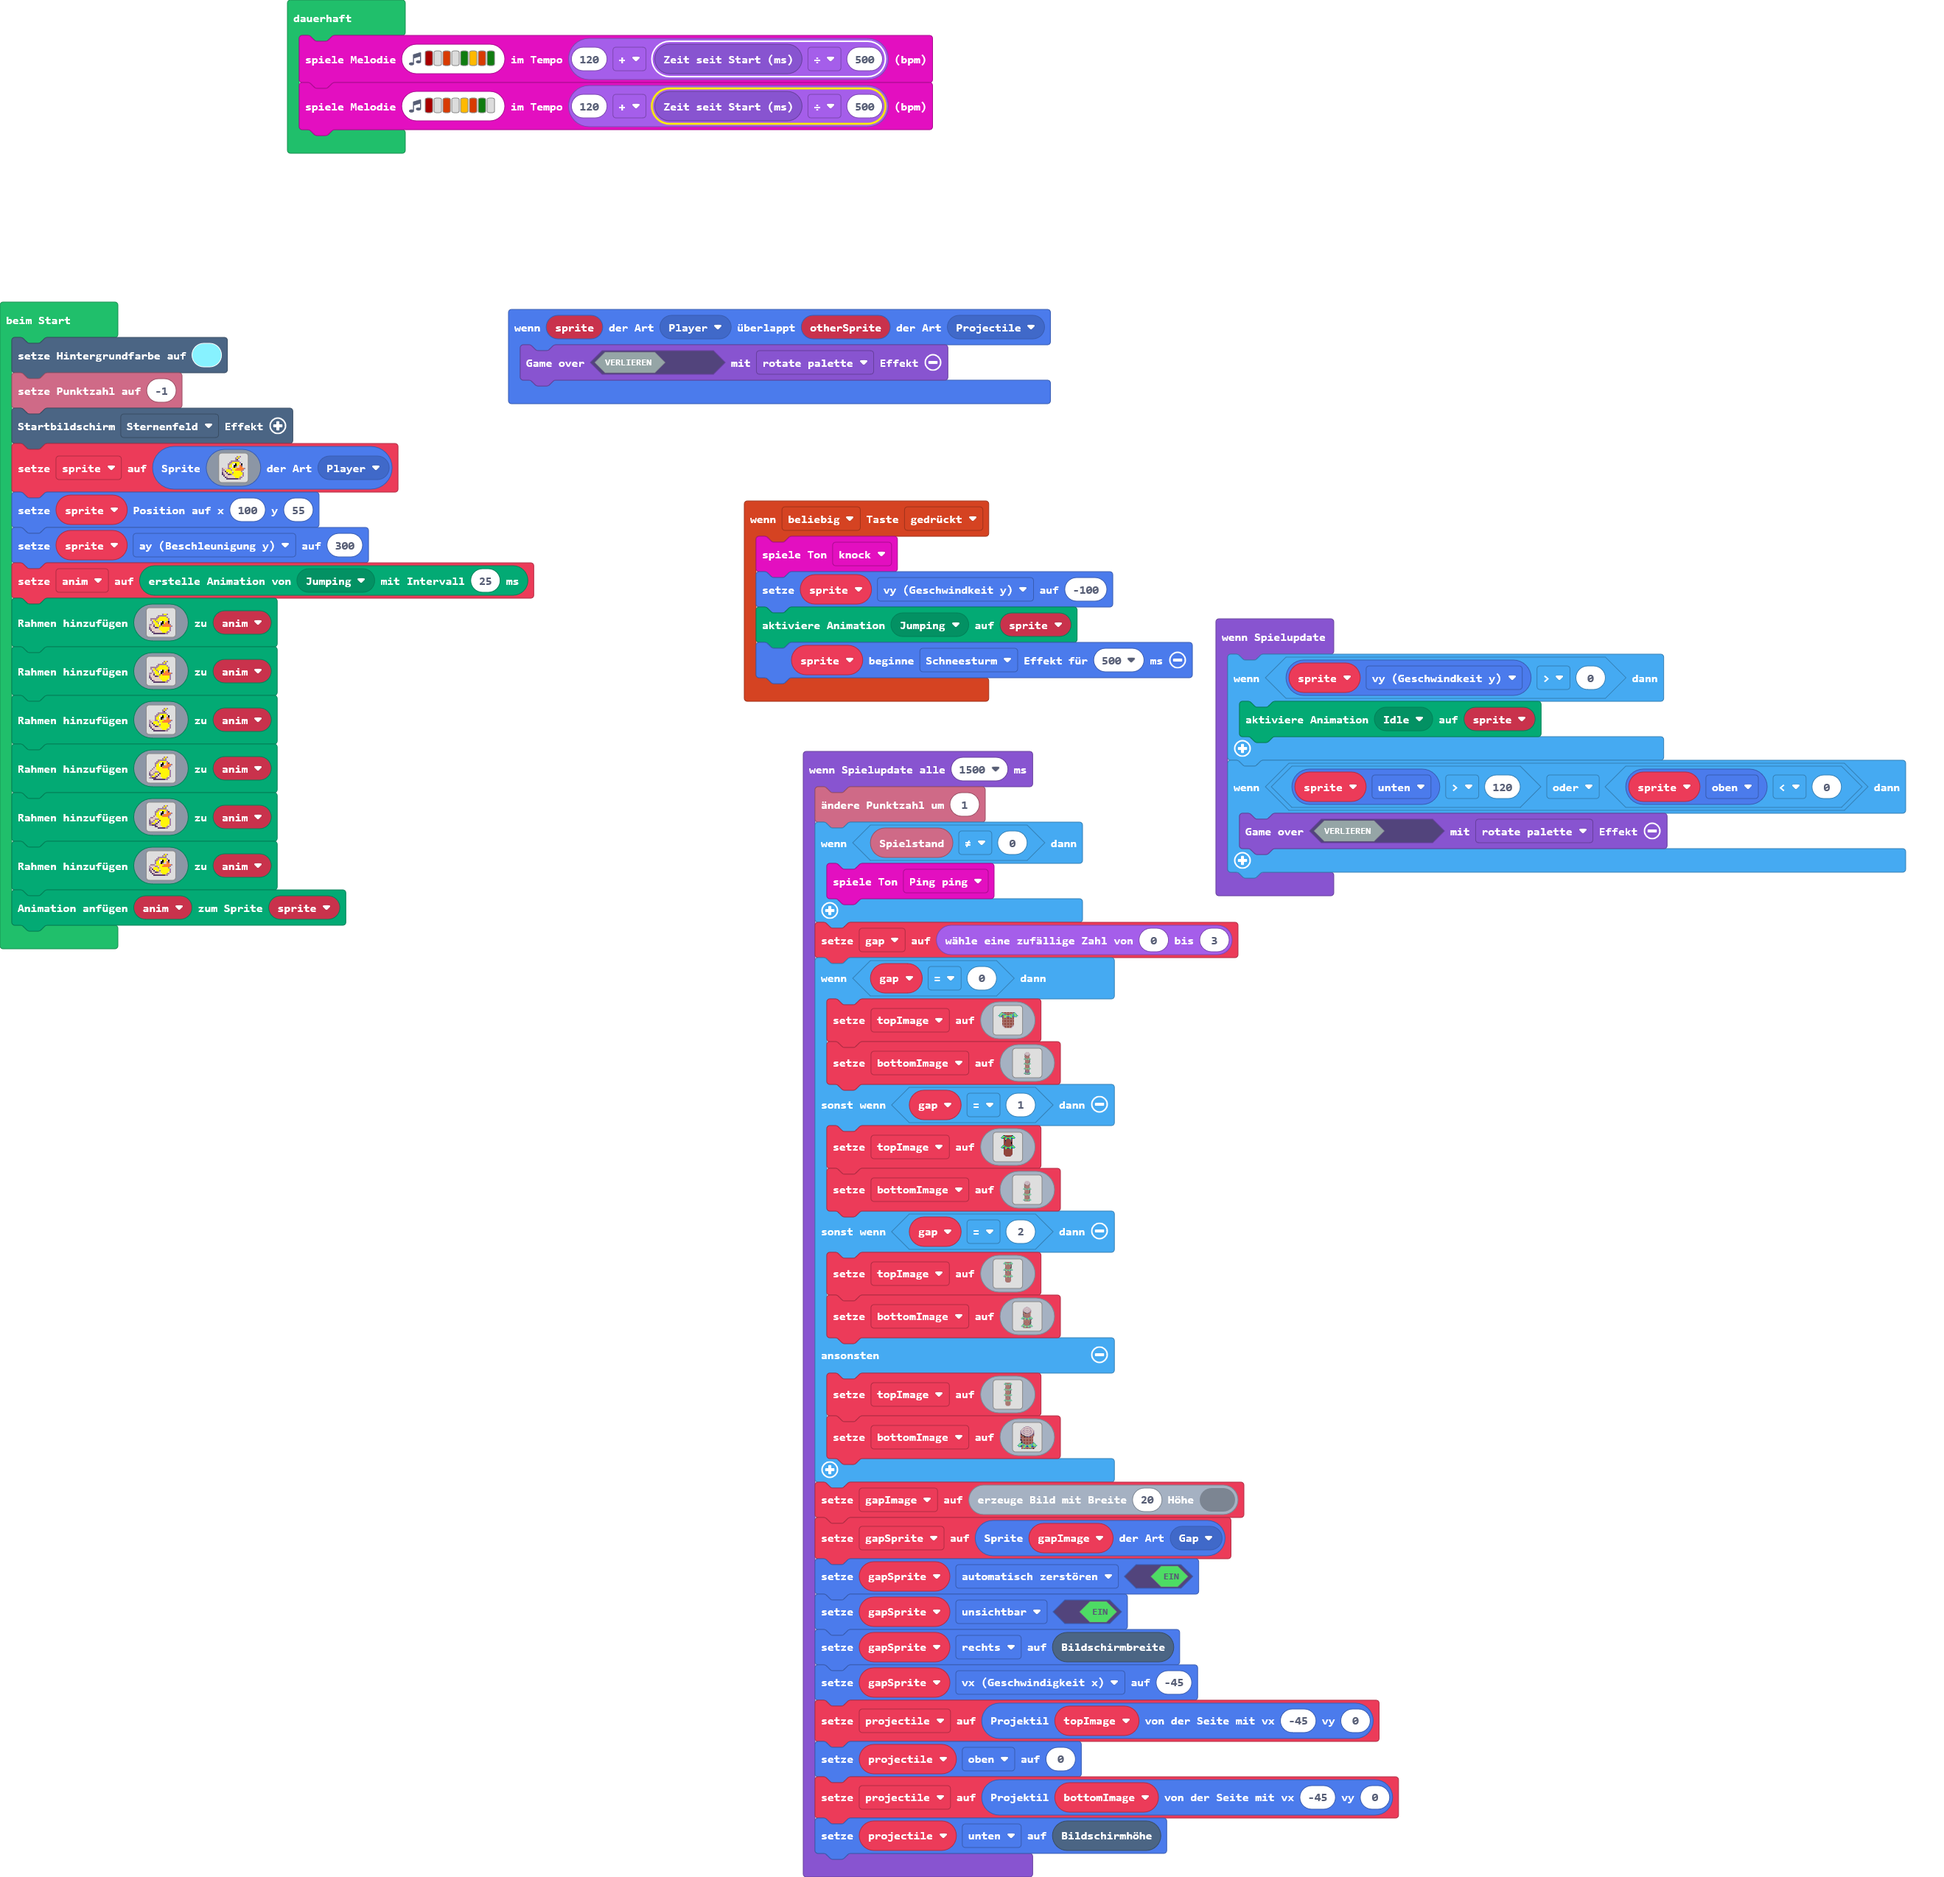
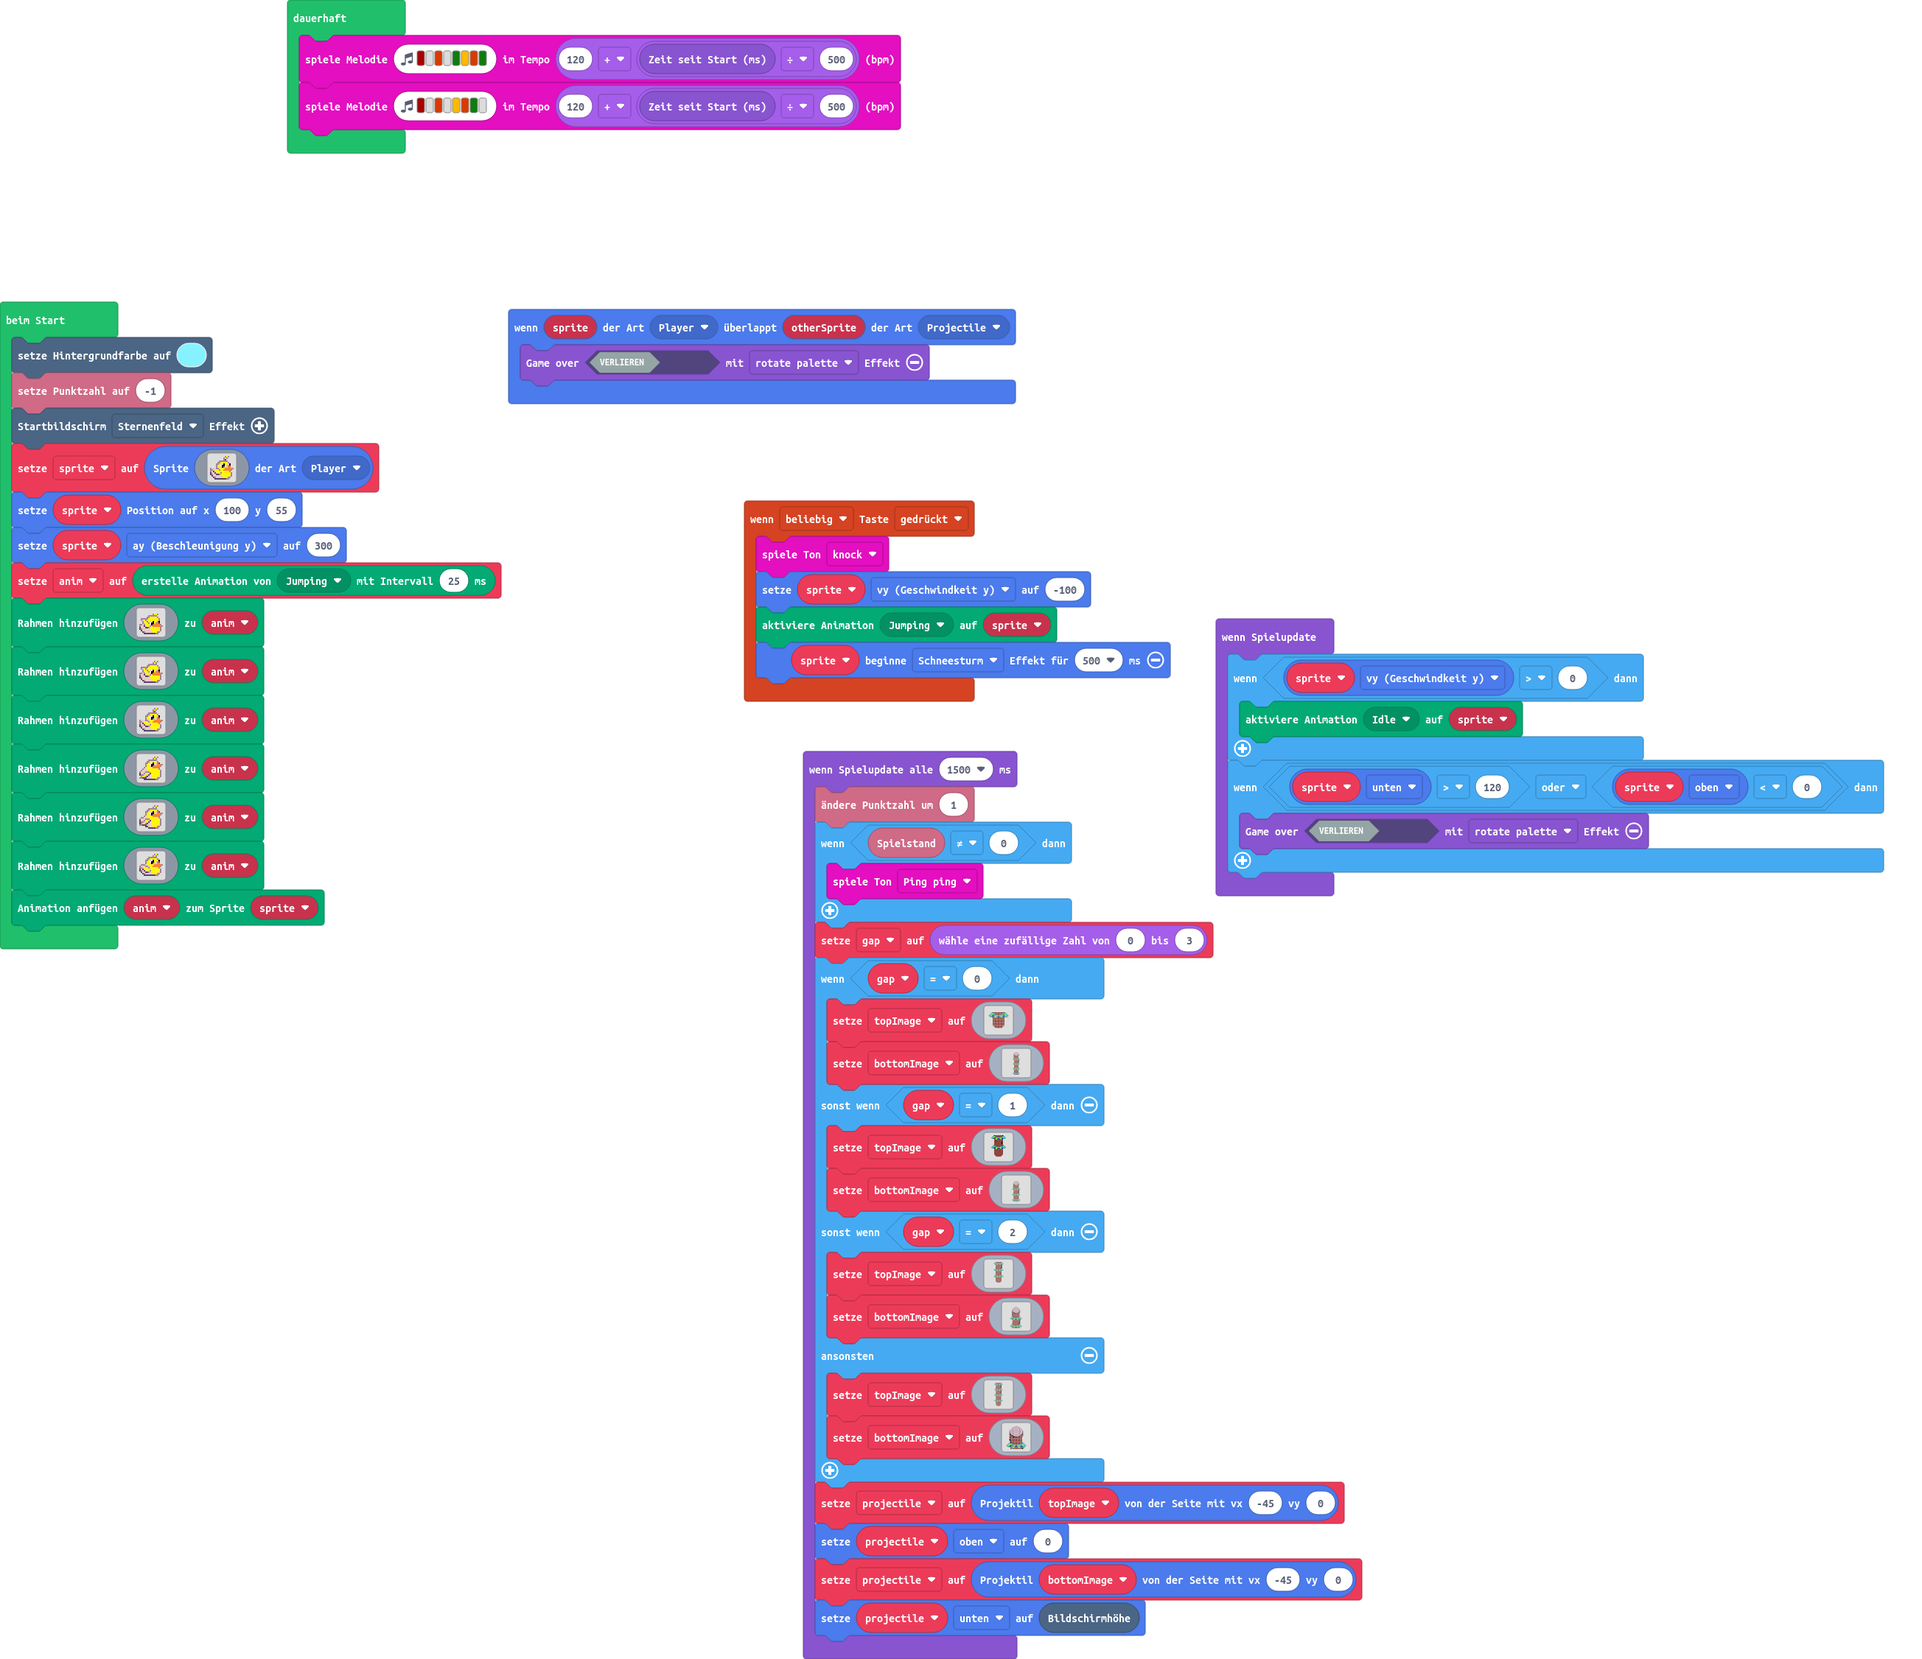
clean up

Changed region(s): [[0.2485, 0.1554, 0.9939, 1.0], [0.0, 0.1554, 0.2795, 0.5906], [0.1242, 0.0, 0.4969, 0.0933]]

diff --git a/images.g.ts b/images.g.ts
@@ -477,24 +477,6 @@ ffffffffffffffffffffffffffffffffffffffffffffffffffffffffffffffffffffffffffffffff
 . . . . . . . . . . . . . . . . 
 . . . . . . . . . . . . . . . . 
 `;
-            case "image27":return img`
-.....6eeeeeeeeeece6.....
-....6776eeeeeeeee676....
-...6776666eeee6766776...
-..6776ee77777777667776..
-...668ce7768867788666...
-......ce77eeee67ee......
-......eeeeeeeeeeee......
-......eeeeeeeeeeee......
-......eeeeeeeeeeee......
-......eeeeeeeeeeee......
-......eeeeeeeeeeee......
-......eeeeeeeeeeee......
-......eeeeeeeeeeee......
-......beeeeeeeeeeb......
-.......beeeeeeeeb.......
-........beeeeeeb........
-`;
             case "image28":return img`
 .....6feeeeeeeeeef6.....
 ....6776eeeeeeeee676....
@@ -954,6 +936,24 @@ c b d c d 5 5 b 5 5 5 5 5 5 b .
 . . c b d d d d d 5 5 5 b b . . 
 . . . c c c c c c c c b b . . . 
 . . . . . . . . . . . . . . . . 
+`;
+            case "image27":return img`
+.....6eeeeeeeeeece6.....
+....6776eeeeeeeee676....
+...6776666eeee6766776...
+..6776ee77777777667776..
+...668ce7768867788666...
+......ce77eeee67ee...3..
+......eeeeeeeeeeee......
+......eeeeeeeeeeee......
+......eeeeeeeeeeee......
+......eeeeeeeeeeee......
+......eeeeeeeeeeee......
+......eeeeeeeeeeee......
+......eeeeeeeeeeee......
+......beeeeeeeeeeb......
+.......beeeeeeeeb.......
+........beeeeeeb........
 `;
         }
         return null;

diff --git a/main.ts b/main.ts
@@ -16,8 +16,6 @@ controller.anyButton.onEvent(ControllerButtonEvent.Pressed, function () {
     sprite.startEffect(effects.blizzard, 500)
 })
 let projectile: Sprite = null
-let gapSprite: Sprite = null
-let gapImage: Image = null
 let bottomImage: Image = null
 let topImage: Image = null
 let gap = 0
@@ -176,7 +174,7 @@ game.onUpdateInterval(1500, function () {
             ...6776666eeee6766776...
             ..6776ee77777777667776..
             ...668ce7768867788666...
-            ......ce77eeee67ee......
+            ......ce77eeee67ee...3..
             ......eeeeeeeeeeee......
             ......eeeeeeeeeeee......
             ......eeeeeeeeeeee......
@@ -526,12 +524,6 @@ game.onUpdateInterval(1500, function () {
             ......ee6eeeeee6eef.....
             `
     }
-    gapImage = image.create(20, 0)
-    gapSprite = sprites.create(gapImage, SpriteKind.Gap)
-    gapSprite.setFlag(SpriteFlag.AutoDestroy, true)
-    gapSprite.setFlag(SpriteFlag.Invisible, true)
-    gapSprite.right = scene.screenWidth()
-    gapSprite.vx = -45
     projectile = sprites.createProjectileFromSide(topImage, -45, 0)
     projectile.top = 0
     projectile = sprites.createProjectileFromSide(bottomImage, -45, 0)
